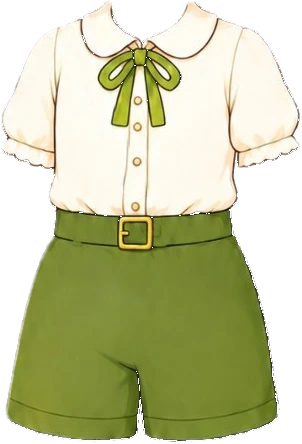
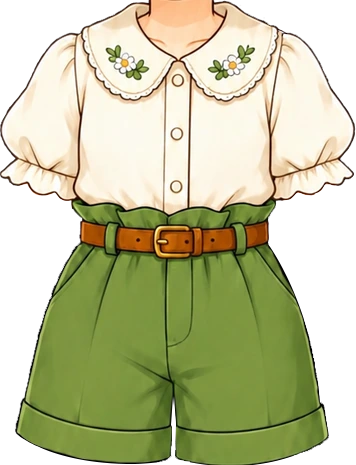
여아 사파리 옷 새 원화로 교체 (#760)
원화 목을 여아 목 중심·어깨 시작점에 맞추고 목 폭이 같아지는 배율 0.70으로 얹었다. 원화 목은 페이드. imgGirl ?v=5.

Claude-Session: https://claude.ai/code/session_018maNuYqDfFyRSe9uKpZhPR

diff --git a/src/data/avatarEquipment.js b/src/data/avatarEquipment.js
@@ -231,7 +231,10 @@ export const AVATAR_CATALOG = [
      보내 주신 손질본을 (369,404) 에 1% 확대해서 얹었다(safari-boy-outfit-edit-src).
      배율 0.663 · 가로 1.02배 · 중심 x516. 가랑이 V 메움은 하지 않는다 — 사용자가
      기본 아바타를 바꿀 예정이라. 새 베이스 올 때 다시 맞춘다 (사용자 확정). */
-  { id: "top_vest",       slot: "top",   label: "사파리 옷",   emoji: "🦺", price:DECOR_PRICE.rare, rarity: "rare",   theme: "adventure", coversBottom: true, img: "assets/avatar/top/safari-outfit-boy.webp?v=9", imgGirl: "assets/avatar/top/safari-outfit-girl.webp?v=4", thumb: "assets/avatar/thumb/top_vest.webp?v=5", thumbGirl: "assets/avatar/thumb/top_vest-girl.webp" },
+  /* [2026-10-02] 여아 사파리 옷 새 원화로 교체 — 크림 블라우스(데이지 자수 깃) + 벨트 초록 반바지(사용자 원화).
+     베이커리룩과 같은 방식: 원화 목 외곽선 중심(x181)을 여아 목 중심 x512.5 에, 목이 어깨로 넓어지는 원화 y15 를 y372 에 맞추고
+     배율 0.70(원화 목 폭 63 → 여아 목 44 와 같아지는 값, 수영복 비침 1px). 원화 목은 페이드. imgGirl ?v=5 · thumbGirl ?v=2. */
+  { id: "top_vest",       slot: "top",   label: "사파리 옷",   emoji: "🦺", price:DECOR_PRICE.rare, rarity: "rare",   theme: "adventure", coversBottom: true, img: "assets/avatar/top/safari-outfit-boy.webp?v=9", imgGirl: "assets/avatar/top/safari-outfit-girl.webp?v=5", thumb: "assets/avatar/thumb/top_vest.webp?v=5", thumbGirl: "assets/avatar/thumb/top_vest-girl.webp?v=2" },
 
   /* ── 딸기 소풍 · 별빛 마법사 (여아) — 사용자 원화 2026-08-19 ─────────────
      이 두 벌은 원화를 **베이스 v7 여아가 입은 전신 그림**으로 받았다. 그래서 배율을

diff --git a/art-src/README.md b/art-src/README.md
@@ -380,7 +380,7 @@ getBoundingClientRect로 재서 정한다. 2026-08-05 점검에서 이 기준을
 | safari-boy-outfit-src.webp | **사파리 옷 원화 남아 v2 (사용자 원화 2026-10-02)** — 493×594, 투명 배경, **옷만 오려 낸 그림**(알파 상자 (30,36)-(462,558)). 초록 긴소매(팔꿈치까지 걷음) 티셔츠 + 카키 카고 조끼 + 카키 카고 반바지. 예전 판(크림 셔츠 + 탄색 조끼)을 대체했고 규칙 6에 따라 같은 이름으로 덮어썼다. **목 살 떼기** — 원화 깃 위로 목·쇄골 살이 그려져 있어, 가장 큰 살색 덩어리의 열 범위에서 초록 깃의 위끝을 4차 곡선으로 매끈하게 이은 선 위를 전부 지우고 그 자리에 2px 짙은 갈색(58,44,34) 깃선을 다시 그렸다 — 베이스의 목이 그대로 보인다. **맞춤** — 베이스 v9 남아 기준, 배율·가로배·위치를 격자로 훑어 "안 가려진 흰 속옷×3 + 안 가려진 어깨(y420~540) + 목 살 덮음 + 몸 밖 불룩×0.5"가 최소인 값: 배율 **0.65** · 가로 **1.02배** · 위끝 **y402** · 가로 중심 **515** → 탑재 상자 (372,402)-(658,733). 소매 끝이 팔꿈치(y≈560), 반바지 끝이 허벅지 가운데. **가랑이 V 메움** — y640~715 · x480~550 에서 "베이스 불투명 + 옷 알파<250" 116px 을 반바지 색 (124,114,74) 으로 채웠다(흰 속옷이 비치던 자리). 자홍 배경 검사: 연결 조각 1 · 안쪽 구멍 0. **[사용자 확정 2026-10-02] 격자로 보며 미세 조정** — 3px 내림 → 2% 키움 → 1px 올림 → 배율 **0.663** · 가로 1.02배 · 위끝 **y404** · 중심 515 → 탑재 상자 **(369,404)-(661,741)**. 가랑이 메움은 같은 규칙으로 64px. 몸통 쪽 안 가려진 속옷 1px. 경로 ?v=6 | avatar/top/safari-outfit-boy.webp · thumb/top_vest.webp |
 | safari-boy-outfit-edit-src.webp | **사파리 옷 남아 — 사용자 손질본 (2026-10-02)**. 위 원화를 배율 0.6564 · 가로 1.02배 · 위끝 y404 · 중심 x514 로 얹은 판을 알파 상자대로 잘라(290×335) 보내 드렸더니, 사용자가 **어깨만 살짝 늘려** 돌려준 그림. 캔버스 크기가 그대로라 (370,404) 에 놓으면 원래 판과 어긋남 0 으로 겹친다(알파 차이 379px — 전부 어깨·소매 둘레). **탑재본은 이 그림을 그대로 쓴다** — 원화(위 행)에서 다시 만들면 어깨 손질이 사라진다. **[2026-10-02 재조정]** 손질본을 **1% 확대** — 배율 0.663 · 가로 1.02배 · 위끝 y404 · 중심 x516 (박스 369,404-662,742). 가랑이 V 메움은 하지 않는다 (사용자 확정). 경로 ?v=9 · 썸네일 ?v=5 | avatar/top/safari-outfit-boy.webp · thumb/top_vest.webp |
 | safari-girl-band-worn-src.webp | **사파리 머리띠 원화 여아 v2 (사용자 원화 2026-08-20)** — 베이스 v7 여아가 **쓰고 있는 머리 그림**(512×512, 투명). 초록 리본 머리띠 + 관자놀이 데이지. 예전 '머리띠만 오려 낸' 원화(safari-girl-band-src)는 지웠다 | avatar/hat/safari-band-girl.webp |
-| safari-girl-outfit-src.webp | 사파리 옷 원화 여아 — 블라우스+반바지 한 장 (현행) | avatar/top/safari-outfit-girl.webp |
+| safari-girl-outfit-src.webp | **사파리 옷 원화 여아 — 새 판 (사용자 원화 2026-10-02, 이전 판 교체)**. 356×465 투명 배경, 크림 블라우스(데이지 자수 둥근 깃·퍼프 소매) + 갈색 벨트 초록 반바지 한 벌. 위쪽에 목(턱 없음)이 함께 그려져 있다. 원화 목 외곽선 x149.5~212.5(폭 63, 중심 181)를 여아 목 x490.5~534.5 중심 512.5 에, 목이 어깨로 넓어지는 원화 y15 를 여아 y372 에 맞추고 배율 0.70(목 폭이 같아지는 값 · 수영복 비침 1px, 가장 작게 덮는 값은 0.67). 목 살(r−b>70)과 목 옆선은 원화 y4→20 동안 0→1 페이드. 조각 1개. 탑재 상자 (386,362)-(635,688) · imgGirl ?v=5 | avatar/top/safari-outfit-girl.webp · thumb/top_vest-girl.webp |
 | safari-girl-boot-src.webp | 사파리 부츠 원화 여아 한 짝 (정면, 좌우 반전해서 한 켤레로) | **(상점에서 뺌 2026-08-20)** — 그림은 avatar/shoes/safari-boots-girl.webp 에 그대로 있다. 다시 넣을 때 재사용 |
 | safari-girl-set-src.webp | 사파리 세트 전체 시트 여아 — 가방은 여기서 오려 냈다 | avatar/back/safari-bag-girl.webp |
 | back-explorer-straps.webp | 탐험 배낭 원화 (초록 롤 + 갈색 가죽끈, z:37로 앞에 그림) | avatar/back/explorer-straps.webp |
